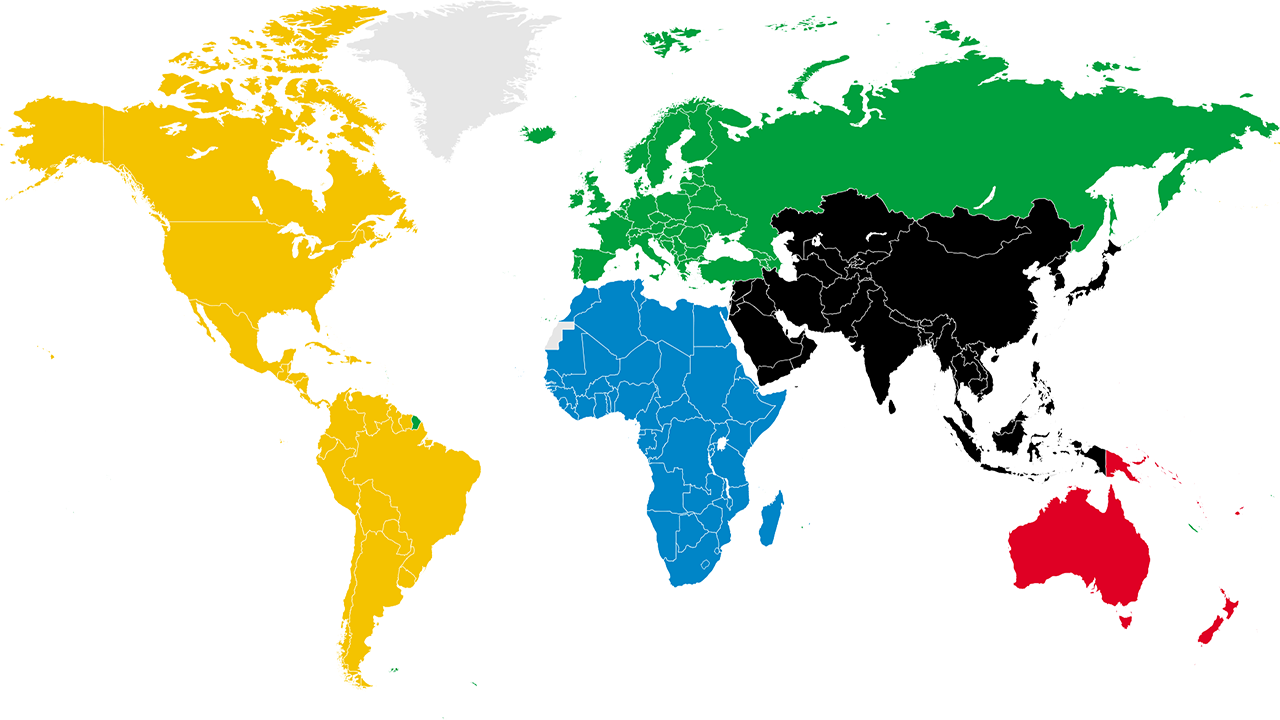
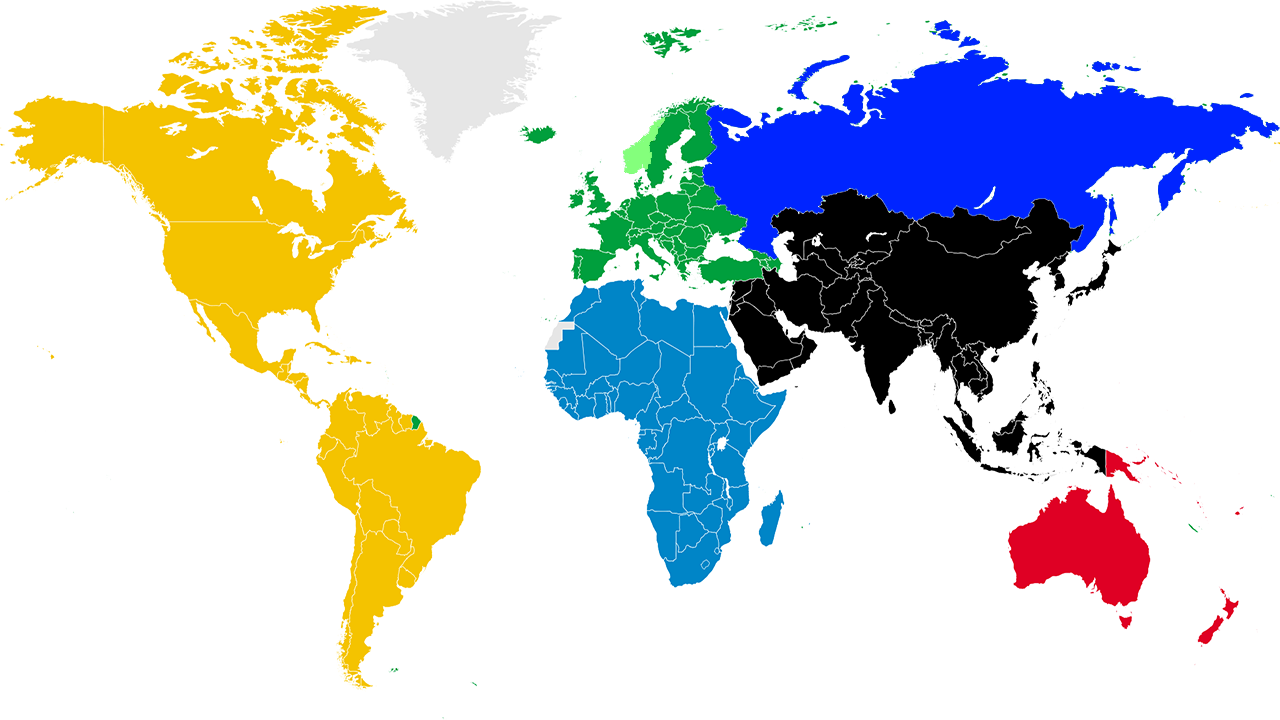
Added Russia and fixed country highlight code.

Changed region(s): [[0.4688, 0.0306, 1.0, 0.3667]]

diff --git a/WorldSim/Game1.cs b/WorldSim/Game1.cs
@@ -16,11 +16,12 @@ namespace WorldSim
         private Texture2D cursor;
         private Texture2D map;
         private Rectangle mousePos;
-        private string selectedCountry;
-        const uint russia = 4282228480;
+        private Country selectedCountry;
+        const uint russia = 4294910976;
+        const uint norway = 4107724238;
         const uint australia = 4280549599;
         const uint usa = 4278240244;
-        private Texture2D[] t2dCountries = new Texture2D[1];
+        private Texture2D[] t2dCountries = new Texture2D[2];
         private int iCountryToHilight = -1;
         private int gameDays;
         private int gameYears;
@@ -53,8 +54,8 @@ namespace WorldSim
                 nextYear();
             }
         }
-        Country uk;
-        Country au;
+        Country Australia;
+        Country Russia;
 
         public Game1()
         {
@@ -63,10 +64,8 @@ namespace WorldSim
             graphics.PreferredBackBufferHeight = 720;
             Content.RootDirectory = "Content";
             mousePos = new Rectangle(0, 0, 25, 25);
-            uk = new Country("United Kingdom");
-            au = new Country("Australia");
-            countries.Add(uk);
-            countries.Add(au);
+            Australia = new Country("Australia");
+            Russia = new Country("Russia");
         }
 
         protected override void Initialize()
@@ -84,6 +83,7 @@ namespace WorldSim
             cursor = Content.Load<Texture2D>("cursor");
             map = Content.Load<Texture2D>("map");
             t2dCountries[0] = Content.Load<Texture2D>("map_AU");
+            t2dCountries[1] = Content.Load<Texture2D>("map_RU");
         }
 
         protected override void UnloadContent()
@@ -101,20 +101,21 @@ namespace WorldSim
             mousePos.X = MPos.X;
             mousePos.Y = MPos.Y;
             uint[] colourValue = new uint[1];
-            if (MPos.LeftButton == ButtonState.Pressed && MPos.X >= 0 && MPos.X < map.Width && MPos.Y >= 0 && MPos.Y < map.Height)
+            if (MPos.LeftButton == ButtonState.Pressed)
             {
+                Console.WriteLine("Clicked!");
                 map.GetData(0, new Rectangle(MPos.X, MPos.Y, 1, 1), colourValue, 0, 1);
                 sCountry = colourValue[0];
             }
-            
+
+            Console.WriteLine(sCountry);
+
             switch (sCountry)
             {
-                case australia: selectedCountry = "Australia"; iCountryToHilight = 0; break;
-                case russia: selectedCountry = "Russia"; iCountryToHilight = -1; break;
-                case usa: selectedCountry = "USA"; iCountryToHilight = -1; break;
+                case australia: selectedCountry = Australia; iCountryToHilight = 0; break;
+                case russia: selectedCountry = Russia; iCountryToHilight = 1; break;
+                default: selectedCountry = null; break;
             }
-
-            Console.WriteLine(selectedCountry + " was clicked!");
 
             Days = gameTime.TotalGameTime.Seconds;
             gameYears = gameDays / 365;
